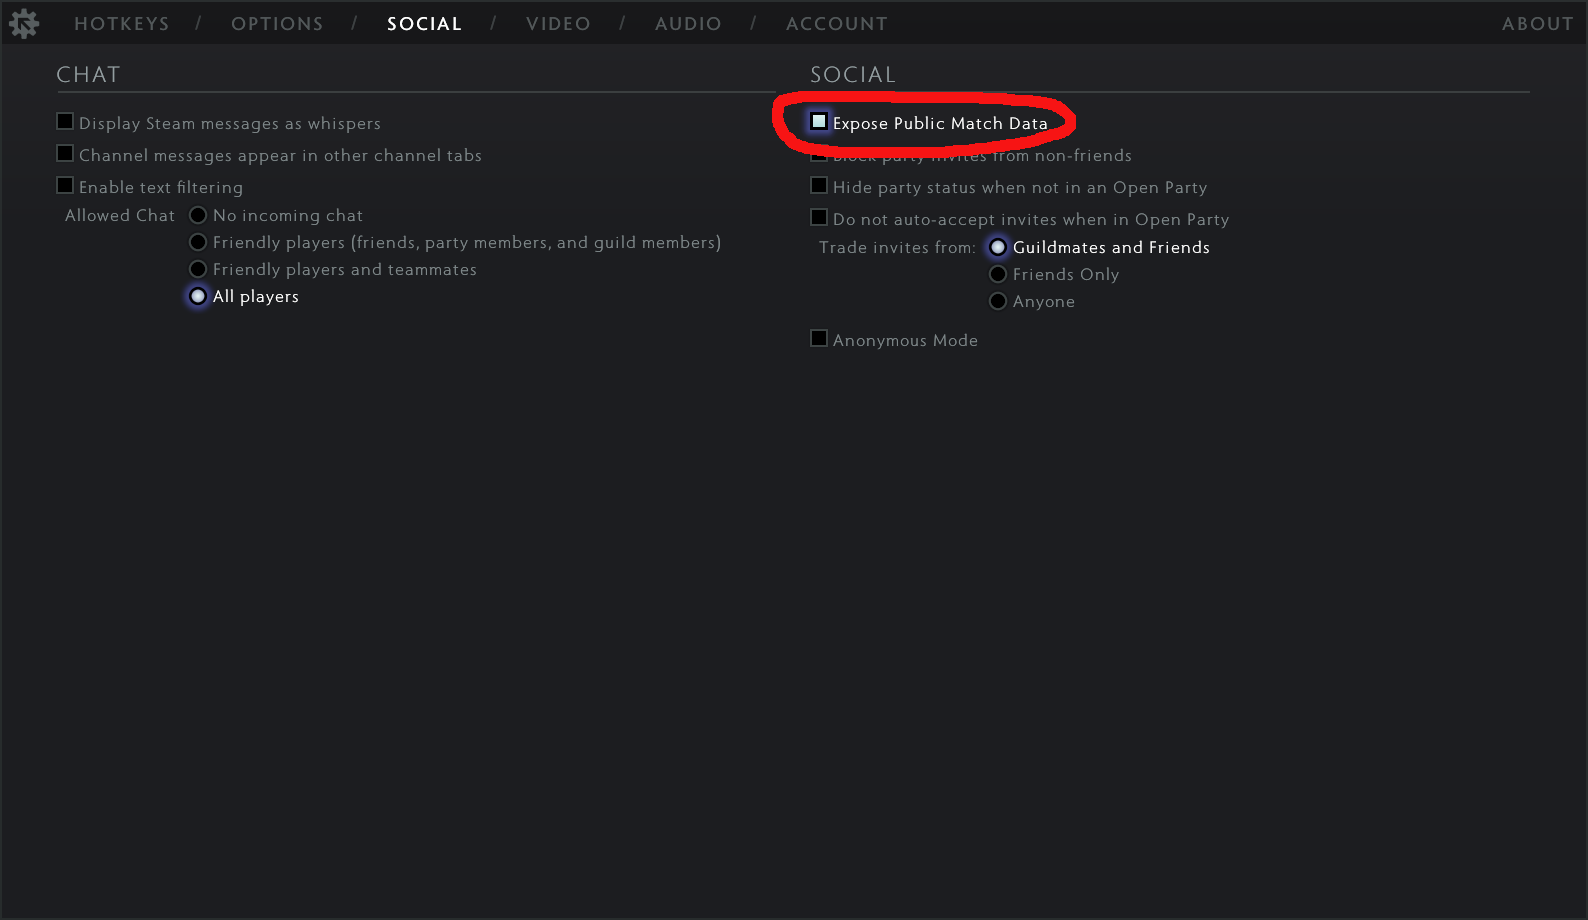
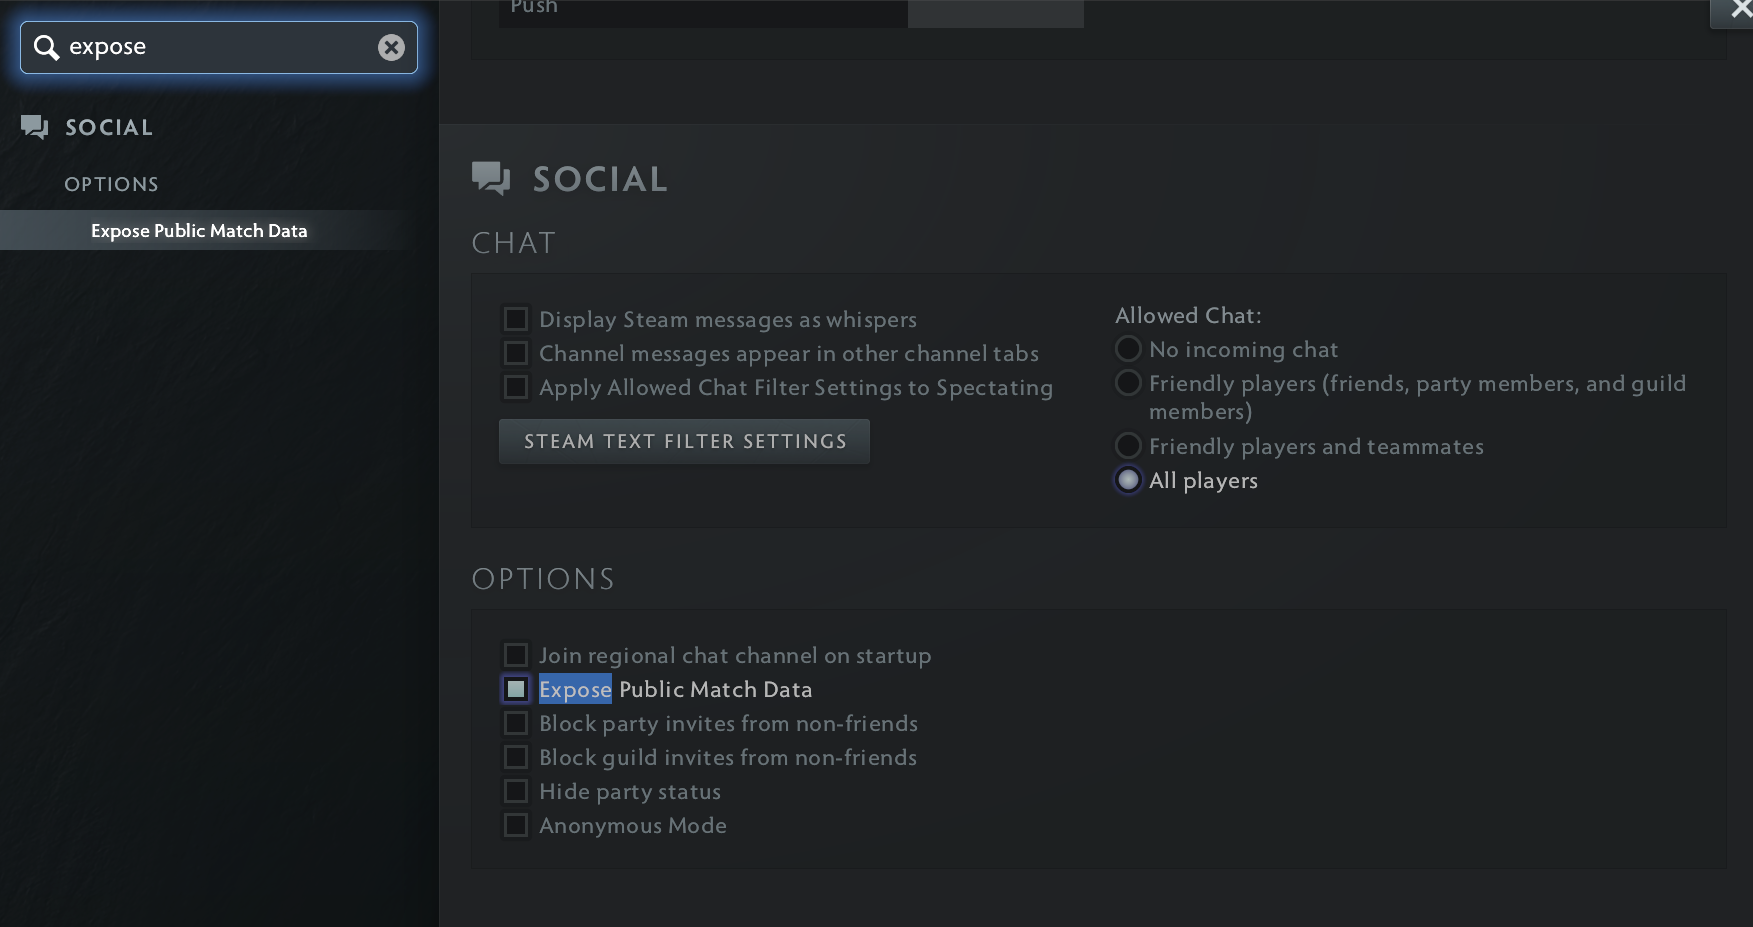
updtaed image for expose public match data and added a docs entry for it

diff --git a/cogs/general.py b/cogs/general.py
@@ -100,7 +100,8 @@ def fill_word_template(template, words):
 
 	return re.sub(r"\{([^}]+)\}", replace, template)
 
-# loads a markdown file as a dictionary
+# loads a markdown file as a dictionary. Each entry is a dict with "description" and "image" (a
+# resource-relative path, or None), the latter set by a "![alt text](path/to/image.png)" line
 def load_md_as_dict(filename):
 	with open(filename, "r") as f:
 		text = f.read()
@@ -110,11 +111,18 @@ def load_md_as_dict(filename):
 	text = "\n" + text
 	result = {}
 	pattern = re.compile(r"\n# ([^\n]+)\n([\s\S]*?)(?=\n# |$)")
+	image_pattern = re.compile(r"^!\[[^\]]*\]\(([^)]+)\)$", re.MULTILINE)
 	for match in pattern.finditer(text):
 		name = match.group(1).strip()
 		description = match.group(2).strip()
 		description = re.sub("\n`", u"\n\u200b`", description)
-		result[name] = description
+		image = None
+		image_match = image_pattern.search(description)
+		if image_match:
+			image = image_match.group(1)
+			description = image_pattern.sub("", description).strip()
+			description = re.sub(r"\n{3,}", "\n\n", description)
+		result[name] = { "description": description, "image": image }
 	return result
 
 def get_docs_keys():
@@ -649,11 +657,18 @@ class General(MangoCog):
 		topic: The topic to get documentation for
 		"""
 		found_topic = topic
+		doc = self.docs_data[found_topic]
 
 		embed = disnake.Embed()
 		embed.title = found_topic
-		embed.description = self.docs_data[found_topic]
-		await inter.send(embed=embed)
+		embed.description = doc["description"]
+
+		if doc["image"]:
+			file = disnake.File(settings.resource(doc["image"]), os.path.basename(doc["image"]))
+			embed.set_image(url=f"attachment://{file.filename}")
+			await inter.send(embed=embed, file=file)
+		else:
+			await inter.send(embed=embed)
 	
 	@tasks.loop(hours=1)
 	async def update_botstats(self):

diff --git a/docs/docs.md b/docs/docs.md
@@ -1,5 +1,6 @@
 <!-- Note that this file is consumed and used by the /docs command. Each h1 heading here is a separate docs command entry -->
 <!-- Note that parts of this file are auto-generated, which is why theres some html comment placeholders below -->
+<!-- Note a line of the form ![alt text](images/some_image.png) in an entry will be attached and shown as the embed's image. Path is relative to the resource/ directory -->
 # Argument: Match Filter
 
 Mangobyte has a feature to allow users to be very specific when requesting information about dota matches. This allows users to filter for matches that are exactly what they are looking for. See filter options below.
@@ -75,6 +76,14 @@ Note that this uses "Match Filter" behind the hood for parsing a dota player, so
 `/match info 6481413969`
 `/match graph lm`
 `/match skillbuild @SomeoneOnDiscord`
+
+# Expose Public Match Data
+
+If mangobyte can't find any matches for an account, it's usually one of two things: either dota hasn't been played on that account, or the matches played on it are hidden from public match data.
+
+If you've played matches on the account, try enabling the **Expose Public Match Data** option in dota's settings (see image below). Once that's turned on, head over to your opendota profile (use `/profile` to get a link) and click the **REFRESH** button under your name.
+
+![Expose Public Match Data](images/expose_match_data.png)
 
 # Slash Commands
 
